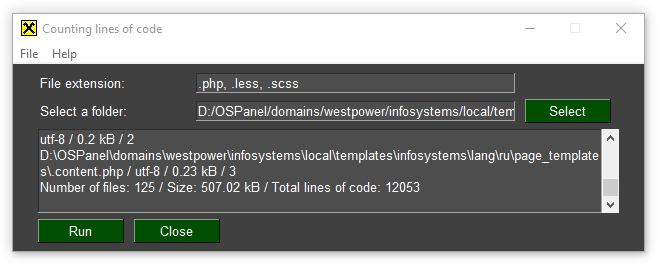
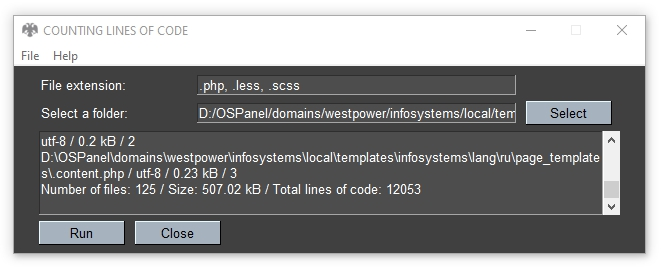
button color

diff --git a/coun-files/countFilesGUI.py b/coun-files/countFilesGUI.py
@@ -47,7 +47,7 @@ def main():
     favicon = "icon\\favicon.ico" # the icon from windows
     expansion = '.php, .less, .scss' # file extension
     sg.theme('Dark')   # Add a touch of color
-    sg.SetOptions(auto_size_buttons=False)
+    sg.SetOptions(icon = favicon, button_color=('#000','#A6B2BE'), auto_size_buttons=False)
     # Menu Definition
     menu_def = [[LF['CF_MENU_FILE'], [LF['CF_MENU_LANG'], ['EN','RU'], LF['CF_MENU_EXIT']+'::_exit_']],[LF['CF_MENU_HELP'], LF['CF_MENU_ABOUT_LINK']+'::_about_']]
     # All the stuff inside your window.
@@ -59,7 +59,7 @@ def main():
                 [sg.Button(LF['CF_RUN'], key='_ok_'), sg.Button(LF['CF_CLOSE'], key='_cansel_')] ]
 
     # Create the Window
-    window = sg.Window(LF['CF_TITLE'], layout, icon = favicon)
+    window = sg.Window(LF['CF_TITLE'].upper(), layout)
     # Event Loop to process "events" and get the "values" of the inputs
     while True:
         event, values = window.read()
@@ -87,7 +87,7 @@ def main():
                 errorForm.append(LF['CF_ERROR_EXPANSION'])
             
             if len(errorForm) > 0:
-                sg.popup("\n".join(errorForm), icon = favicon, no_titlebar=True) 
+                sg.popup("\n".join(errorForm), no_titlebar=True) 
             else:
                 farr = []
                 sm = 0

diff --git a/cbr/cbrGUI.py b/cbr/cbrGUI.py
@@ -54,6 +54,7 @@ def main():
     # ------ the table ------
     favicon = "favicon.ico" # the icon from windows
     sg.theme('Dark')
+    sg.SetOptions(icon = favicon, button_color=('#000','#A6B2BE'), auto_size_buttons=False)
     # ------ Window Layout ------
     layout = [[sg.Table(values=rows, headings=headings, max_col_width=25,
                 # background_color='light blue',
@@ -66,7 +67,7 @@ def main():
                 key='-TABLE-',
                 tooltip=('This is a table').upper())]]
     # ------ Create Window ------
-    window = sg.Window(('Exchange rates on ').upper() + cur['DATE'], layout, icon = favicon)
+    window = sg.Window(('Exchange rates on ').upper() + cur['DATE'], layout)
     w2_active = False
     while True:
         event, values = window.read(timeout=100)
@@ -77,7 +78,7 @@ def main():
             r = [ str(x) for x in rows[values['-TABLE-'][0]] ]
             #p(r)
             l2 = [[sg.Text(", ".join(r), size=(40, 3))],[sg.Button('Exit', size=(40, 1), key='_exit_')]]
-            w2 = sg.Window(r[2] + ' ' + cur['DATE'], l2, icon = favicon)
+            w2 = sg.Window(r[2] + ' ' + cur['DATE'], l2)
         if w2_active:
             ev2, vals2 = w2.read(timeout=100)
             if ev2 is None or ev2 == '_exit_':
